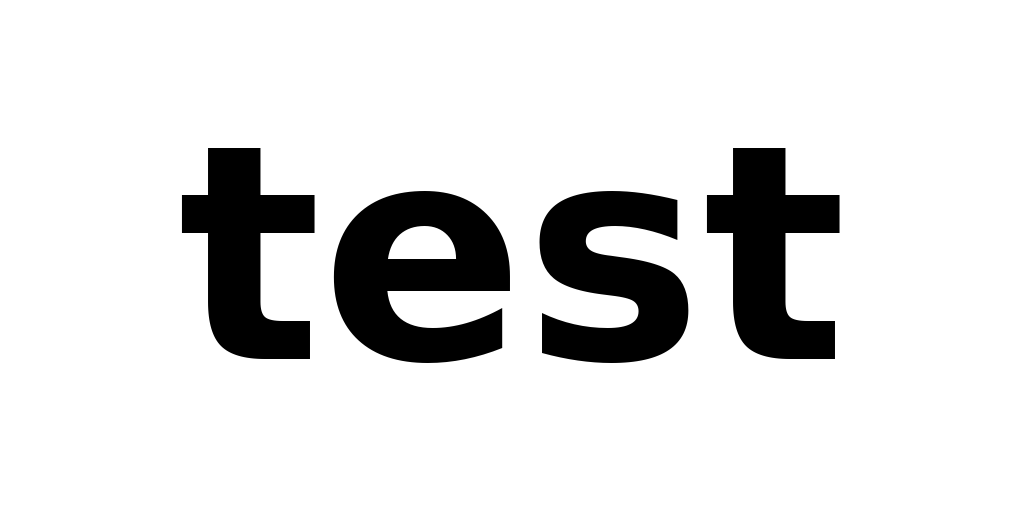
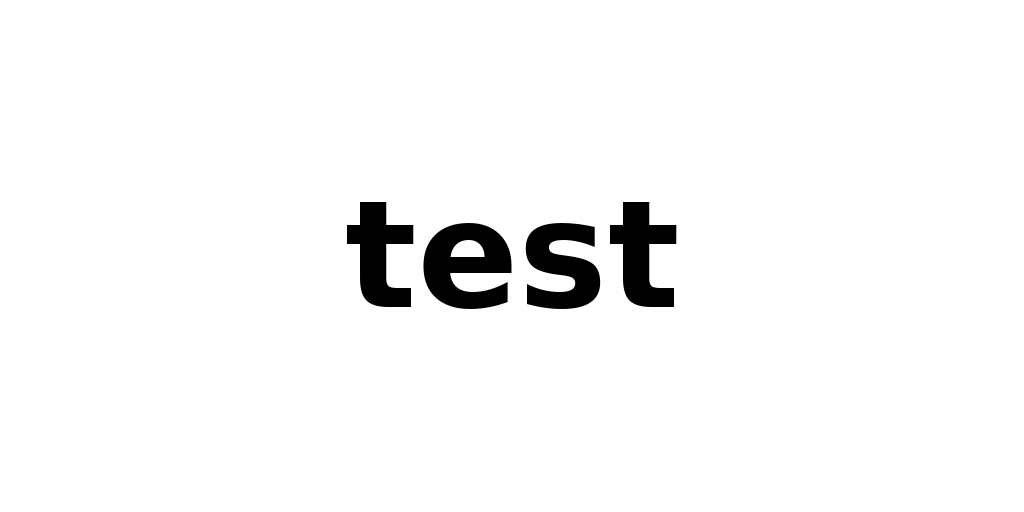
Put the demo rig on a hexagon with a 30 degree baseline
The previous demo mounted camera and projector 0.35 m apart at 4 m, an
angle of about 3 degrees. That is a handheld scanner, not the geometry
structured-light measurement uses, and the projected word came out almost
undistorted because the two viewpoints were nearly identical.

The rig now stops at the six vertices of a 6 m hexagon 3 m up, and the
projector sits 30 degrees further round the same circle at the same
height: baseline 3.1 m, light arriving at 30 degrees to the line of
sight. The word is visibly sheared and unreachable faces stay black.

throw_ratio goes from 1.2 to 3.0 so the 2 m face is covered at 6 m, and
the word in test.png shrinks to a third of the pattern width. At 30
degrees the projector's centre ray lands about 0.6 m off the face centre,
so a wider word was being cut by the cube edge.

Verified: six images and six poses, reprojection RMS below 2e-04 px.

Changed region(s): [[0.1562, 0.2812, 0.8438, 0.7188]]

diff --git a/README.md b/README.md
@@ -373,17 +373,21 @@ A self-contained check that can be judged by eye.
 blender -b demo/cube.blend -P projector_camera.py -- --config demo/config.json
 ```
 
-`demo/cube.blend` holds a single 2 m cube centred on the origin. The rig stops at all eight
-vertices of a regular octagon of radius 4 m and height 2.5 m, aimed at the origin each time,
-and projects `demo/test.png`: the word "test", black on white.
+`demo/cube.blend` holds a single 2 m cube centred on the origin. The rig stops at the six
+vertices of a regular hexagon, radius 6 m and height 3 m, and projects `demo/test.png`: the
+word "test", black on white.
 
-Expect eight images under `demo/output/v<index>_<angle>__test.png`, each showing the cube lit
-with the word across its faces, plus `demo/output/calibration.json` with eight poses.
+The camera and the projector sit on the same circle at the same height, 30 degrees apart, so
+the baseline is $2 \times 6 \sin 15° \approx 3.1$ m and light arrives at 30° to the line of
+sight. That tilt is the point of the demo: the word is visibly sheared and the faces that the
+projector cannot reach stay black.
 
-The camera and projector are rigidly mounted 0.35 m apart. Co-locating them would be
-degenerate: every pixel would leave and return along the same ray, so the capture would be
-the pattern itself, carrying no information about the object, and triangulation would have a
-zero baseline.
+Expect six images under `demo/output/v<index>_<angle>__test.png`, each showing the cube with
+the word on its front face, plus `demo/output/calibration.json` with six poses.
+
+Co-locating the two would be degenerate: every pixel would leave and return along the same
+ray, so the capture would be the pattern itself, carrying no information about the object,
+and triangulation would have a zero baseline.
 
 Each view sets its own `patterns` and the top-level entry is omitted, so the demo also
 exercises the per-view override.
